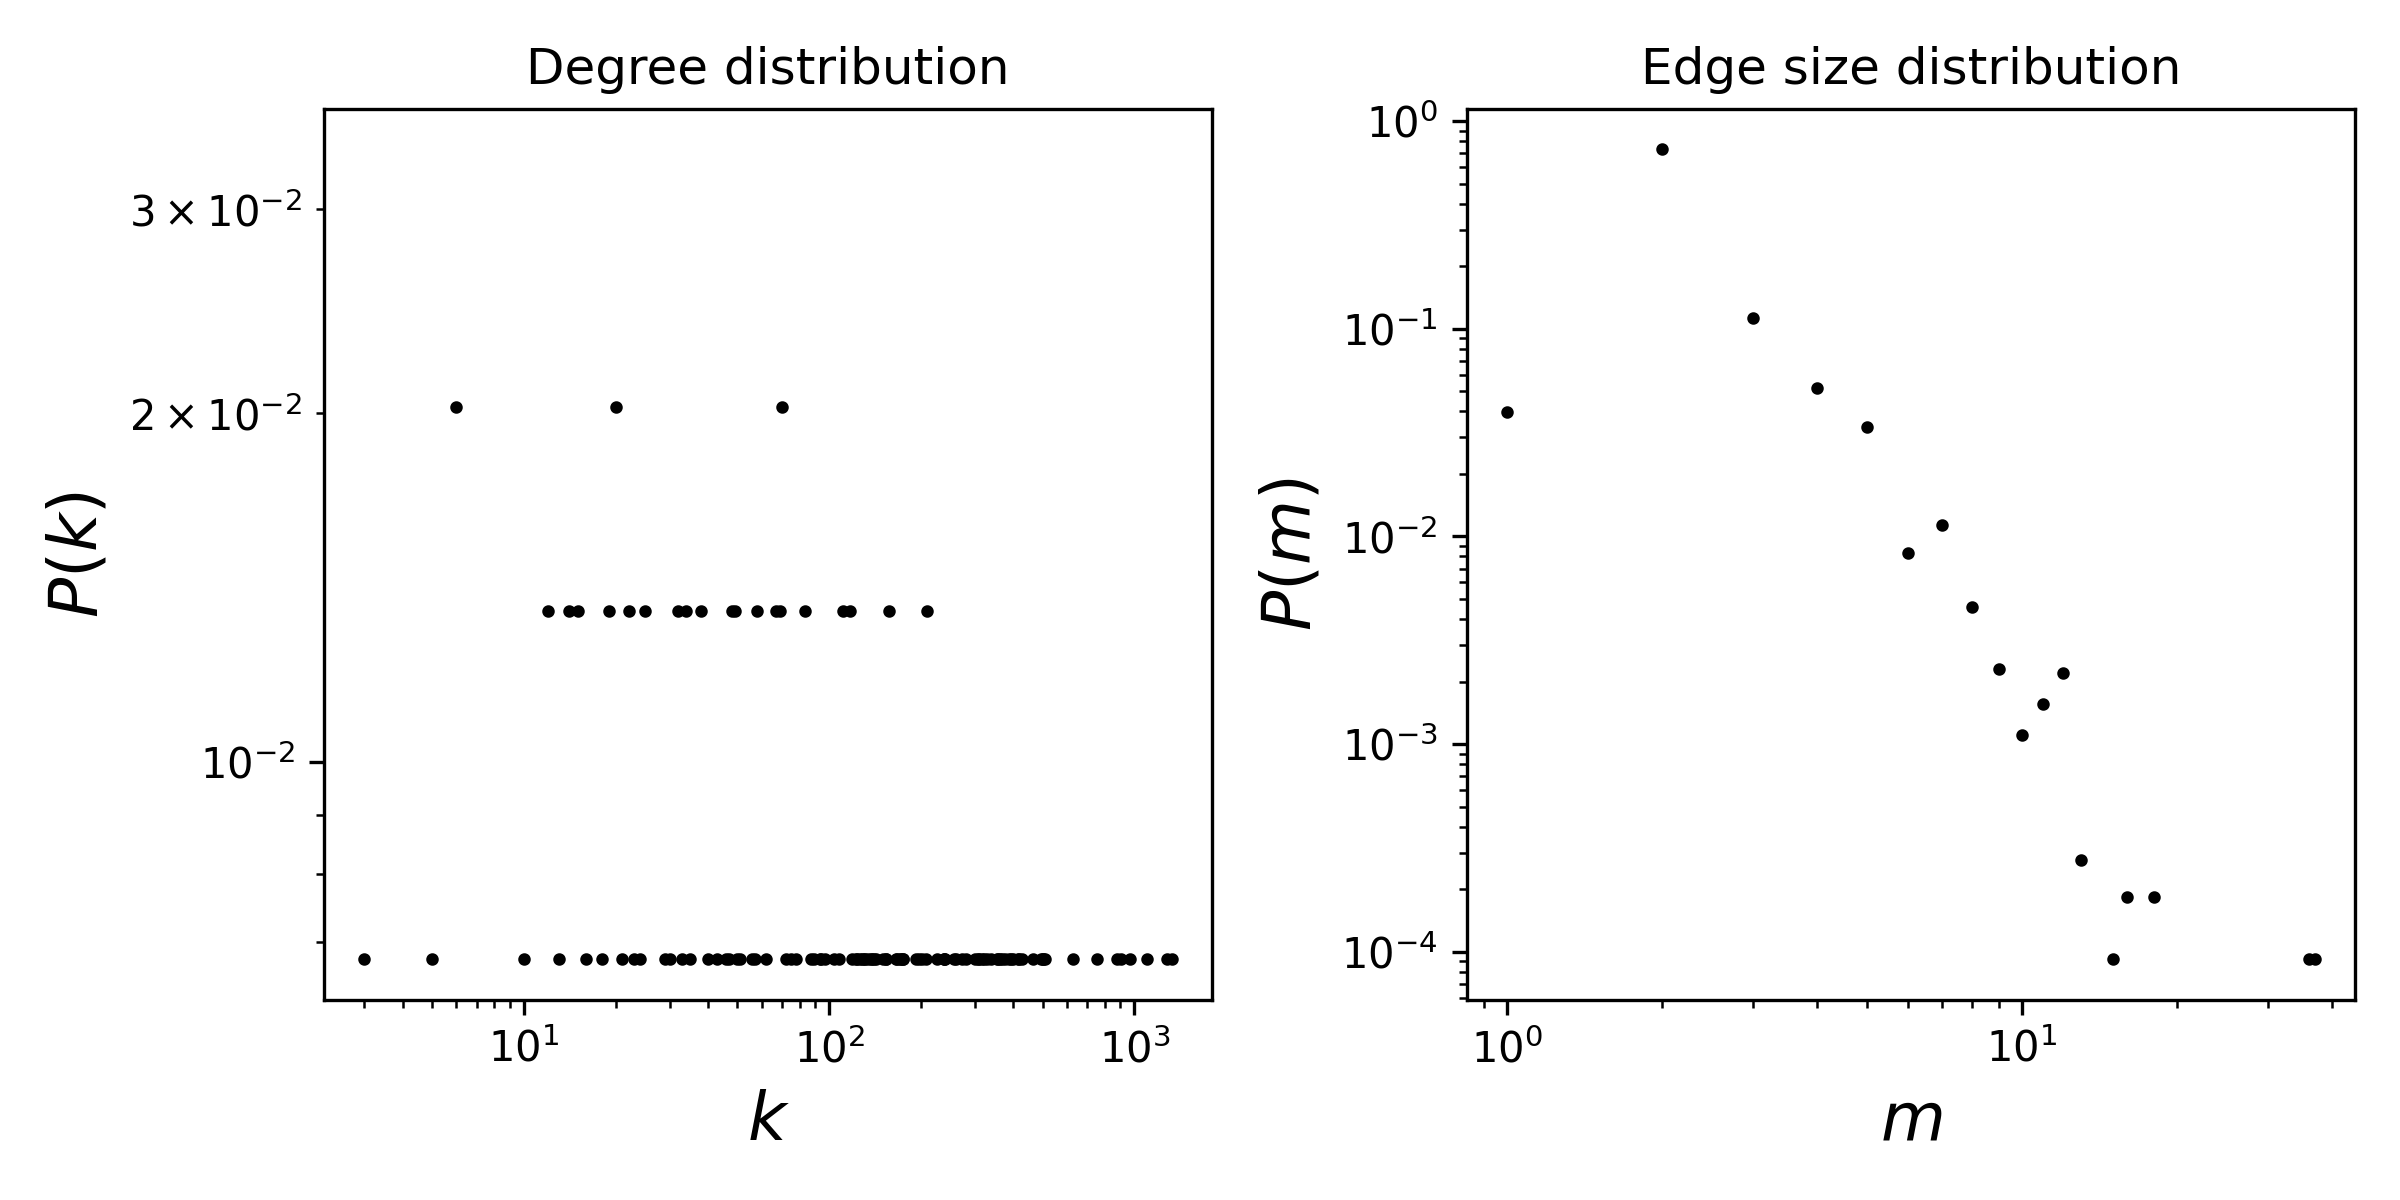
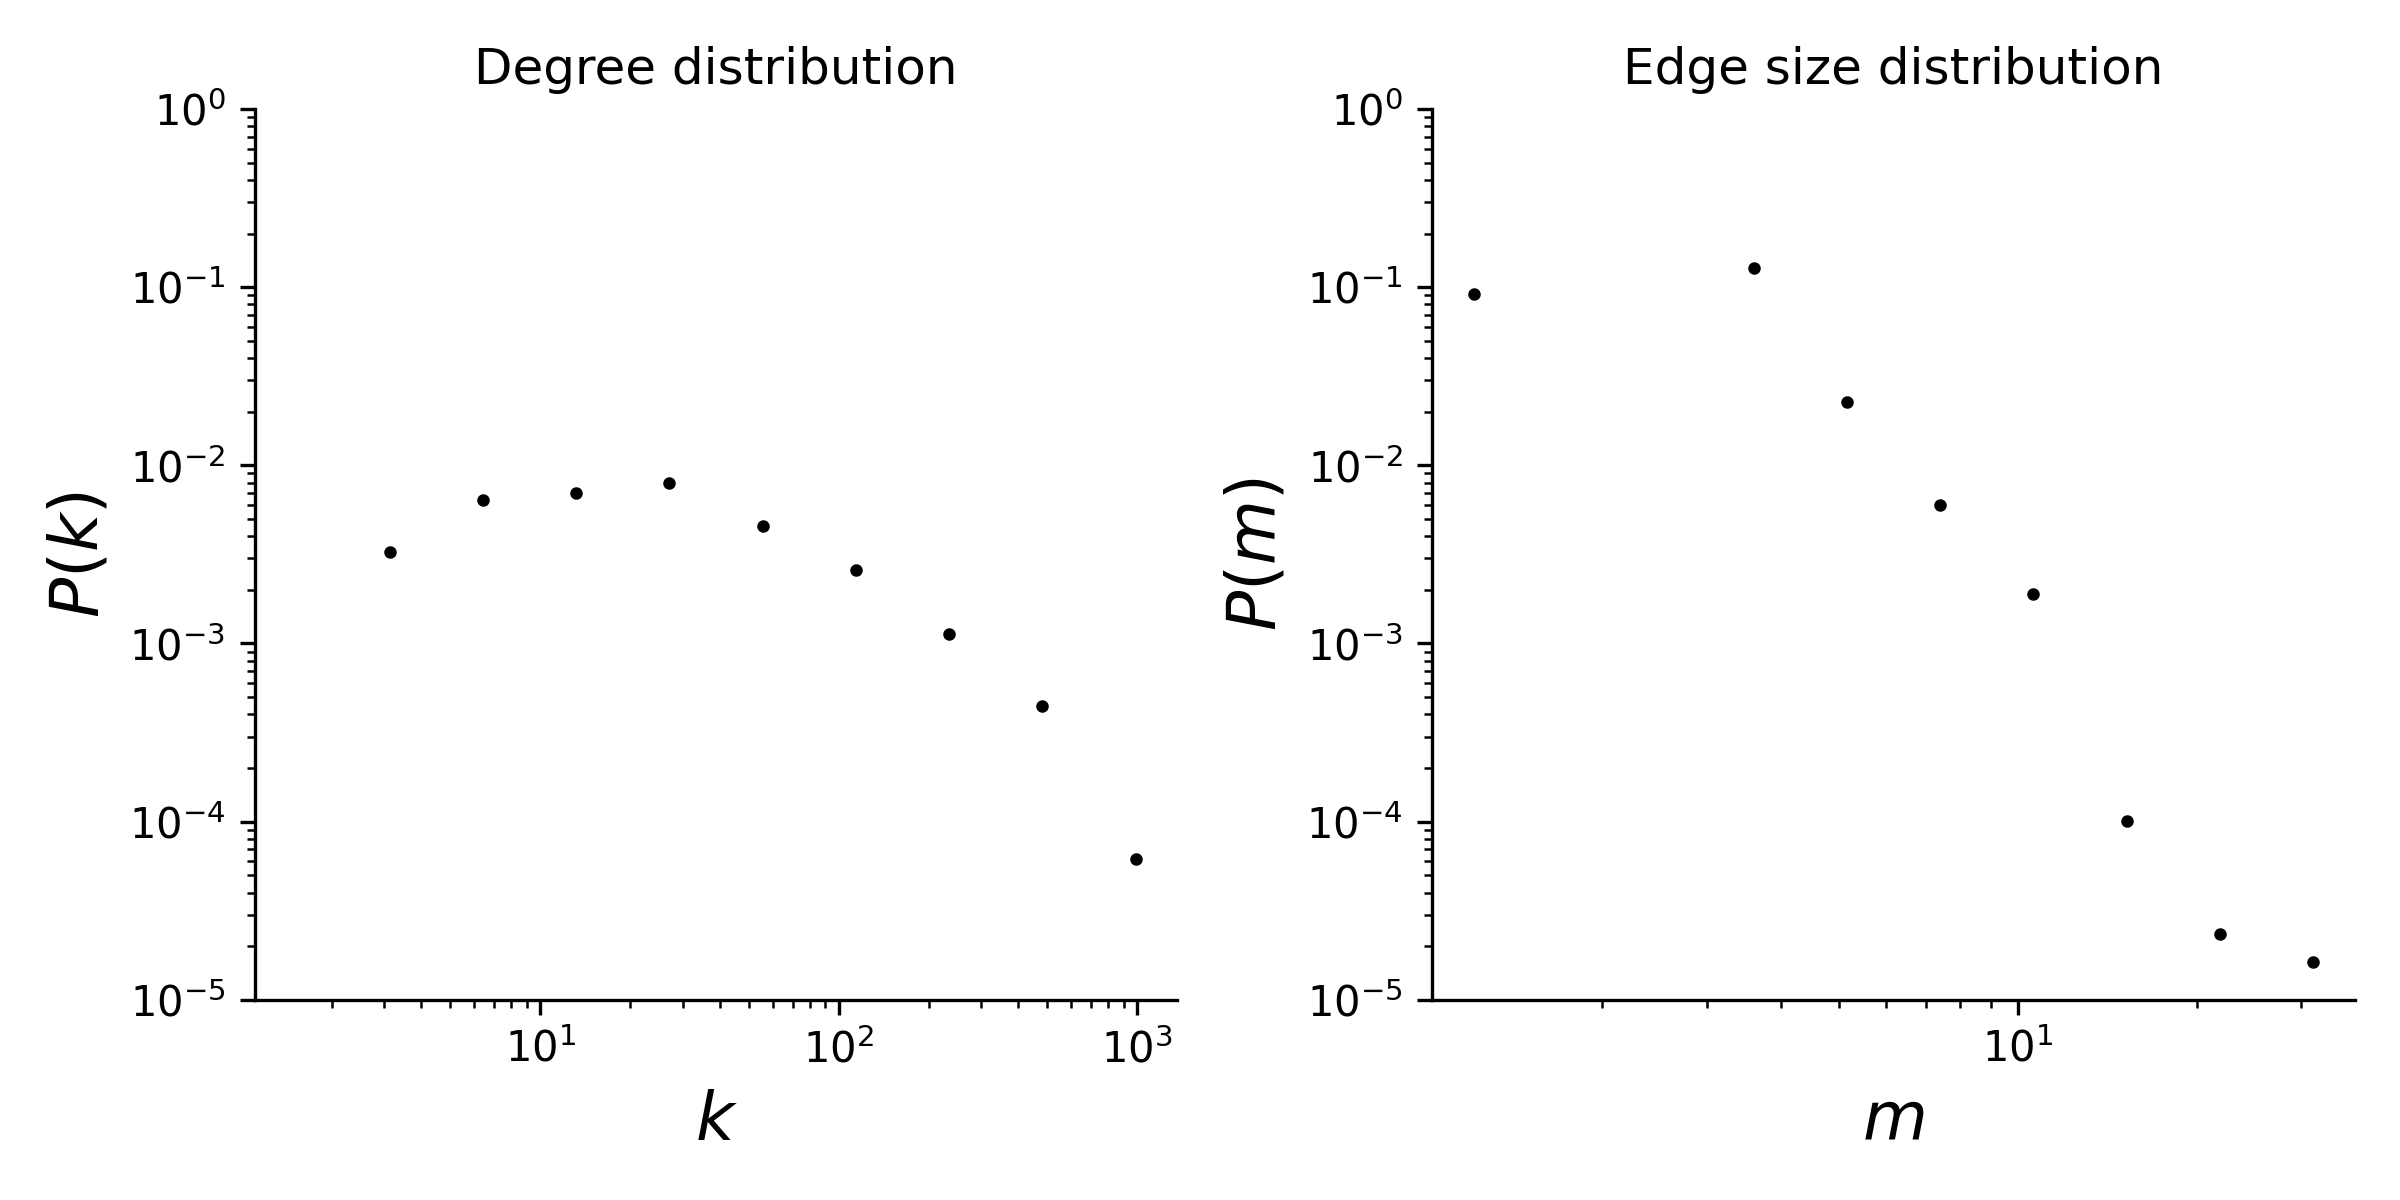
updates

diff --git a/code/import_email-eu.py b/code/import_email-eu.py
@@ -3,6 +3,7 @@ from datetime import datetime
 
 import matplotlib.pyplot as plt
 import numpy as np
+import seaborn as sns
 import utilities
 import xgi
 
@@ -10,6 +11,9 @@ output_stats = True
 output_file = True
 
 data_folder = "data"
+datasheet_folder = "datasheets"
+
+dataset_name = "email-Eu"
 
 dataset_folder = "email-Eu"
 size_file = "email-Eu-full-nverts.txt"
@@ -23,7 +27,7 @@ edge_times_file = os.path.join(data_folder, dataset_folder, times_file)
 edgelist = utilities.readScHoLPData(hyperedge_size_file, member_ID_file)
 
 H = xgi.Hypergraph(edgelist)
-H["name"] = "email-Eu"
+H["name"] = dataset_name
 
 delimiter = "\t"
 
@@ -45,21 +49,27 @@ if output_stats:
     plt.figure(figsize=(8, 4))
     plt.subplot(121)
 
-    degrees, counts = np.unique(H.nodes.degree.asnumpy(), return_counts=True)
-    plt.loglog(degrees, counts / H.num_nodes, "ko", markersize=2)
+    h = H.nodes.degree.ashist(density=True, log_binning=True)
+
+    plt.loglog(h["bin_center"], h["value"], "ko", markersize=2)
     plt.title("Degree distribution")
     plt.xlabel(r"$k$", fontsize=16)
     plt.ylabel(r"$P(k)$", fontsize=16)
+    plt.ylim([1e-5, 1])
+    sns.despine()
+
     plt.subplot(122)
-    sizes, counts = np.unique(H.edges.size.asnumpy(), return_counts=True)
-    plt.loglog(sizes, counts / H.num_edges, "ko", markersize=2)
+    h = H.edges.size.ashist(density=True, log_binning=True)
+    plt.loglog(h["bin_center"], h["value"], "ko", markersize=2)
     plt.title("Edge size distribution")
-    plt.xlabel(r"$m$", fontsize=16)
-    plt.ylabel(r"$P(m)$", fontsize=16)
+    plt.xlabel(r"$s$", fontsize=16)
+    plt.ylabel(r"$P(s)$", fontsize=16)
+    plt.ylim([1e-5, 1])
+    sns.despine()
     plt.tight_layout()
-    plt.savefig("data/email-Eu/stats.png", dpi=300)
+    plt.savefig(f"{datasheet_folder}/{dataset_name}/stats.png", dpi=300)
     plt.show()
 
 
 if output_file:
-    xgi.write_json(H, os.path.join(data_folder, dataset_folder, "email-Eu.json"))
+    xgi.write_json(H, os.path.join(data_folder, dataset_folder, dataset_name + ".json"))

diff --git a/code/import_coauth-DBLP.py b/code/import_coauth-DBLP.py
@@ -2,6 +2,7 @@ import os
 
 import matplotlib.pyplot as plt
 import numpy as np
+import seaborn as sns
 import utilities
 import xgi
 
@@ -9,9 +10,11 @@ output_stats = True
 output_file = True
 
 data_folder = "data"
+datasheet_folder = "datasheets"
 
-dataset_name = "coauth-DBLP-full"
-dataset_folder = f"{dataset_name}"
+dataset_name = "coauth-DBLP"
+
+dataset_folder = "coauth-DBLP-full"
 size_file = f"{dataset_name}-nverts.txt"
 member_file = f"{dataset_name}-simplices.txt"
 n_labels_file = f"{dataset_name}-node-labels.txt"
@@ -25,7 +28,7 @@ edge_times_file = os.path.join(data_folder, dataset_folder, times_file)
 edgelist = utilities.readScHoLPData(hyperedge_size_file, member_ID_file)
 
 H = xgi.Hypergraph(edgelist)
-H["name"] = "coauth-DBLP"
+H["name"] = dataset_name
 
 delimiter = " "
 
@@ -51,19 +54,25 @@ if output_stats:
     plt.figure(figsize=(8, 4))
     plt.subplot(121)
 
-    degrees, counts = np.unique(H.nodes.degree.asnumpy(), return_counts=True)
-    plt.loglog(degrees, counts / H.num_nodes, "ko", markersize=2)
+    h = H.nodes.degree.ashist(density=True, log_binning=True)
+
+    plt.loglog(h["bin_center"], h["value"], "ko", markersize=2)
     plt.title("Degree distribution")
     plt.xlabel(r"$k$", fontsize=16)
     plt.ylabel(r"$P(k)$", fontsize=16)
+    plt.ylim([1e-5, 1])
+    sns.despine()
+
     plt.subplot(122)
-    sizes, counts = np.unique(H.edges.size.asnumpy(), return_counts=True)
-    plt.plot(sizes, counts / H.num_edges, "ko", markersize=2)
+    h = H.edges.size.ashist(density=True)
+    plt.plot(h["bin_center"], h["value"], "ko", markersize=2)
     plt.title("Edge size distribution")
-    plt.xlabel(r"$m$", fontsize=16)
-    plt.ylabel(r"$P(m)$", fontsize=16)
+    plt.xlabel(r"$s$", fontsize=16)
+    plt.ylabel(r"$P(s)$", fontsize=16)
+    plt.ylim([1e-5, 1])
+    sns.despine()
     plt.tight_layout()
-    plt.savefig(f"{data_folder}/{dataset_folder}/stats.png", dpi=300)
+    plt.savefig(f"{datasheet_folder}/{dataset_name}/stats.png", dpi=300)
     plt.show()
 
 

diff --git a/code/import_email-enron.py b/code/import_email-enron.py
@@ -2,6 +2,7 @@ import os
 
 import matplotlib.pyplot as plt
 import numpy as np
+import seaborn as sns
 import utilities
 import xgi
 
@@ -9,8 +10,11 @@ output_stats = True
 output_file = True
 
 data_folder = "data"
+datasheet_folder = "datasheets"
 
-dataset_folder = "email-Enron"
+dataset_name = "email-Enron"
+
+dataset_folder = "email-Enron-full"
 size_file = "email-Enron-full-nverts.txt"
 member_file = "email-Enron-full-simplices.txt"
 labels_file = "email-Enron-full-node-labels.txt"
@@ -24,7 +28,7 @@ edge_times_file = os.path.join(data_folder, dataset_folder, times_file)
 edgelist = utilities.readScHoLPData(hyperedge_size_file, member_ID_file)
 
 H = xgi.Hypergraph(edgelist)
-H["name"] = "email-Enron"
+H["name"] = dataset_name
 
 delimiter = " "
 
@@ -50,19 +54,25 @@ if output_stats:
     plt.figure(figsize=(8, 4))
     plt.subplot(121)
 
-    degrees, counts = np.unique(H.nodes.degree.asnumpy(), return_counts=True)
-    plt.loglog(degrees, counts / H.num_nodes, "ko", markersize=2)
+    h = H.nodes.degree.ashist(density=True, log_binning=True)
+
+    plt.loglog(h["bin_center"], h["value"], "ko", markersize=2)
     plt.title("Degree distribution")
     plt.xlabel(r"$k$", fontsize=16)
     plt.ylabel(r"$P(k)$", fontsize=16)
+    plt.ylim([1e-5, 1])
+    sns.despine()
+
     plt.subplot(122)
-    sizes, counts = np.unique(H.edges.size.asnumpy(), return_counts=True)
-    plt.loglog(sizes, counts / H.num_edges, "ko", markersize=2)
+    h = H.edges.size.ashist(density=True, log_binning=True)
+    plt.loglog(h["bin_center"], h["value"], "ko", markersize=2)
     plt.title("Edge size distribution")
-    plt.xlabel(r"$m$", fontsize=16)
-    plt.ylabel(r"$P(m)$", fontsize=16)
+    plt.xlabel(r"$s$", fontsize=16)
+    plt.ylabel(r"$P(s)$", fontsize=16)
+    plt.ylim([1e-5, 1])
+    sns.despine()
     plt.tight_layout()
-    plt.savefig("data/email-Enron/stats.png", dpi=300)
+    plt.savefig(f"{datasheet_folder}/{dataset_name}/stats.png", dpi=300)
     plt.show()
 
 

diff --git a/code/import_coauth-MAG-Geology.py b/code/import_coauth-MAG-Geology.py
@@ -2,6 +2,7 @@ import os
 
 import matplotlib.pyplot as plt
 import numpy as np
+import seaborn as sns
 import utilities
 import xgi
 
@@ -9,9 +10,10 @@ output_stats = True
 output_file = True
 
 data_folder = "data"
+datasheet_folder = "datasheets"
 
 dataset_name = "coauth-MAG-Geology"
-dataset_folder = f"{dataset_name}"
+dataset_folder = "coauth-MAG-Geology"
 size_file = f"{dataset_name}-nverts.txt"
 member_file = f"{dataset_name}-simplices.txt"
 n_labels_file = f"{dataset_name}-node-labels.txt"
@@ -52,19 +54,25 @@ if output_stats:
     plt.figure(figsize=(8, 4))
     plt.subplot(121)
 
-    degrees, counts = np.unique(H.nodes.degree.asnumpy(), return_counts=True)
-    plt.loglog(degrees, counts / H.num_nodes, "ko", markersize=2)
+    h = H.nodes.degree.ashist(density=True, log_binning=True)
+
+    plt.loglog(h["bin_center"], h["value"], "ko", markersize=2)
     plt.title("Degree distribution")
     plt.xlabel(r"$k$", fontsize=16)
     plt.ylabel(r"$P(k)$", fontsize=16)
+    plt.ylim([1e-5, 1])
+    sns.despine()
+
     plt.subplot(122)
-    sizes, counts = np.unique(H.edges.size.asnumpy(), return_counts=True)
-    plt.plot(sizes, counts / H.num_edges, "ko", markersize=2)
+    h = H.edges.size.ashist(density=True)
+    plt.plot(h["bin_center"], h["value"], "ko", markersize=2)
     plt.title("Edge size distribution")
-    plt.xlabel(r"$m$", fontsize=16)
-    plt.ylabel(r"$P(m)$", fontsize=16)
+    plt.xlabel(r"$s$", fontsize=16)
+    plt.ylabel(r"$P(s)$", fontsize=16)
+    plt.ylim([1e-5, 1])
+    sns.despine()
     plt.tight_layout()
-    plt.savefig(f"{data_folder}/{dataset_folder}/stats.png", dpi=300)
+    plt.savefig(f"{datasheet_folder}/{dataset_name}/stats.png", dpi=300)
     plt.show()
 
 

diff --git a/code/import_coauth-MAG-History.py b/code/import_coauth-MAG-History.py
@@ -2,6 +2,7 @@ import os
 
 import matplotlib.pyplot as plt
 import numpy as np
+import seaborn as sns
 import utilities
 import xgi
 
@@ -9,9 +10,10 @@ output_stats = True
 output_file = True
 
 data_folder = "data"
+datasheet_folder = "datasheets"
 
 dataset_name = "coauth-MAG-History"
-dataset_folder = f"{dataset_name}"
+dataset_folder = "coauth-MAG-History"
 size_file = f"{dataset_name}-nverts.txt"
 member_file = f"{dataset_name}-simplices.txt"
 n_labels_file = f"{dataset_name}-node-labels.txt"
@@ -52,19 +54,25 @@ if output_stats:
     plt.figure(figsize=(8, 4))
     plt.subplot(121)
 
-    degrees, counts = np.unique(H.nodes.degree.asnumpy(), return_counts=True)
-    plt.loglog(degrees, counts / H.num_nodes, "ko", markersize=2)
+    h = H.nodes.degree.ashist(density=True, log_binning=True)
+
+    plt.loglog(h["bin_center"], h["value"], "ko", markersize=2)
     plt.title("Degree distribution")
     plt.xlabel(r"$k$", fontsize=16)
     plt.ylabel(r"$P(k)$", fontsize=16)
+    plt.ylim([1e-5, 1])
+    sns.despine()
+
     plt.subplot(122)
-    sizes, counts = np.unique(H.edges.size.asnumpy(), return_counts=True)
-    plt.plot(sizes, counts / H.num_edges, "ko", markersize=2)
+    h = H.edges.size.ashist(density=True)
+    plt.plot(h["bin_center"], h["value"], "ko", markersize=2)
     plt.title("Edge size distribution")
-    plt.xlabel(r"$m$", fontsize=16)
-    plt.ylabel(r"$P(m)$", fontsize=16)
+    plt.xlabel(r"$s$", fontsize=16)
+    plt.ylabel(r"$P(s)$", fontsize=16)
+    plt.ylim([1e-5, 1])
+    sns.despine()
     plt.tight_layout()
-    plt.savefig(f"{data_folder}/{dataset_folder}/stats.png", dpi=300)
+    plt.savefig(f"{datasheet_folder}/{dataset_name}/stats.png", dpi=300)
     plt.show()
 
 
